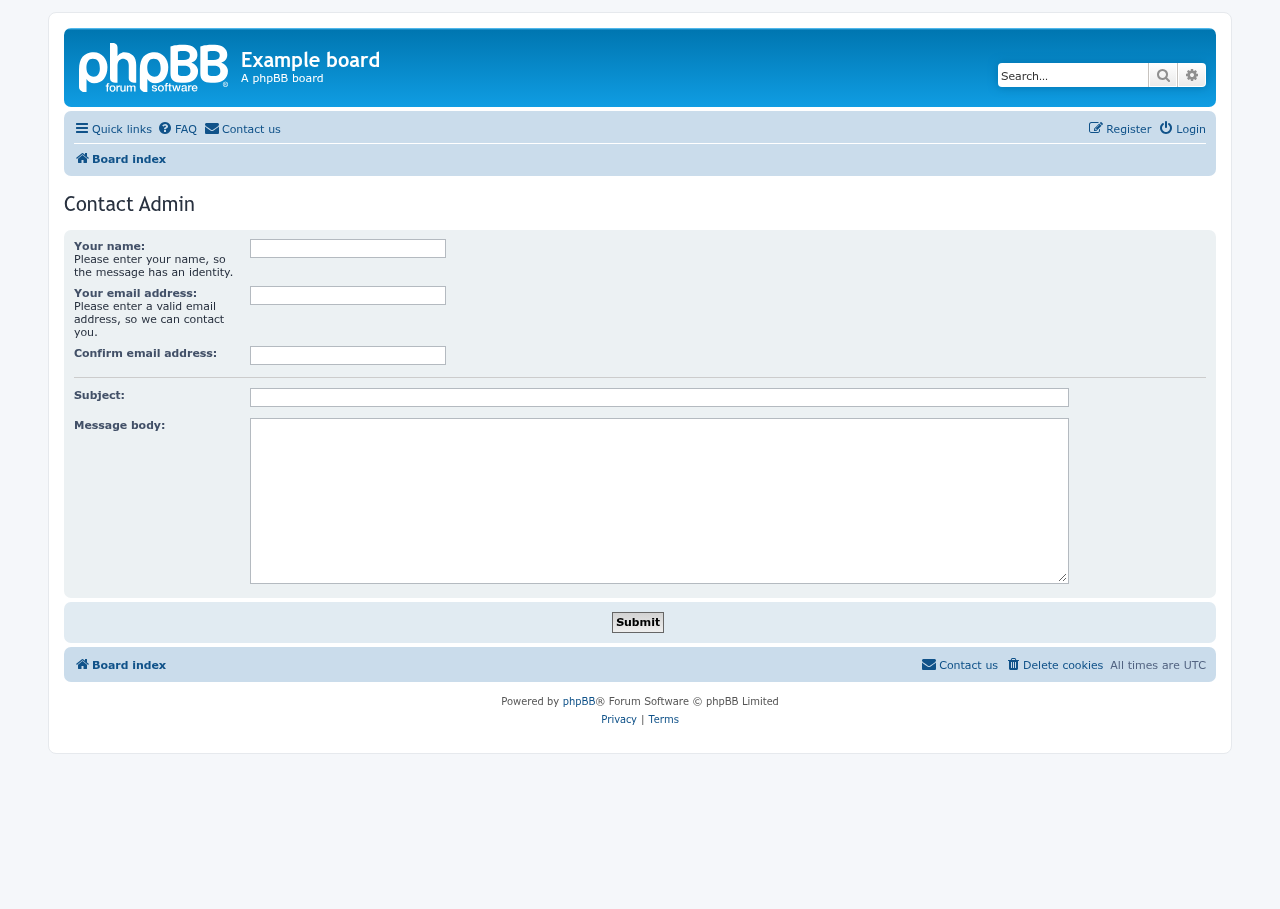
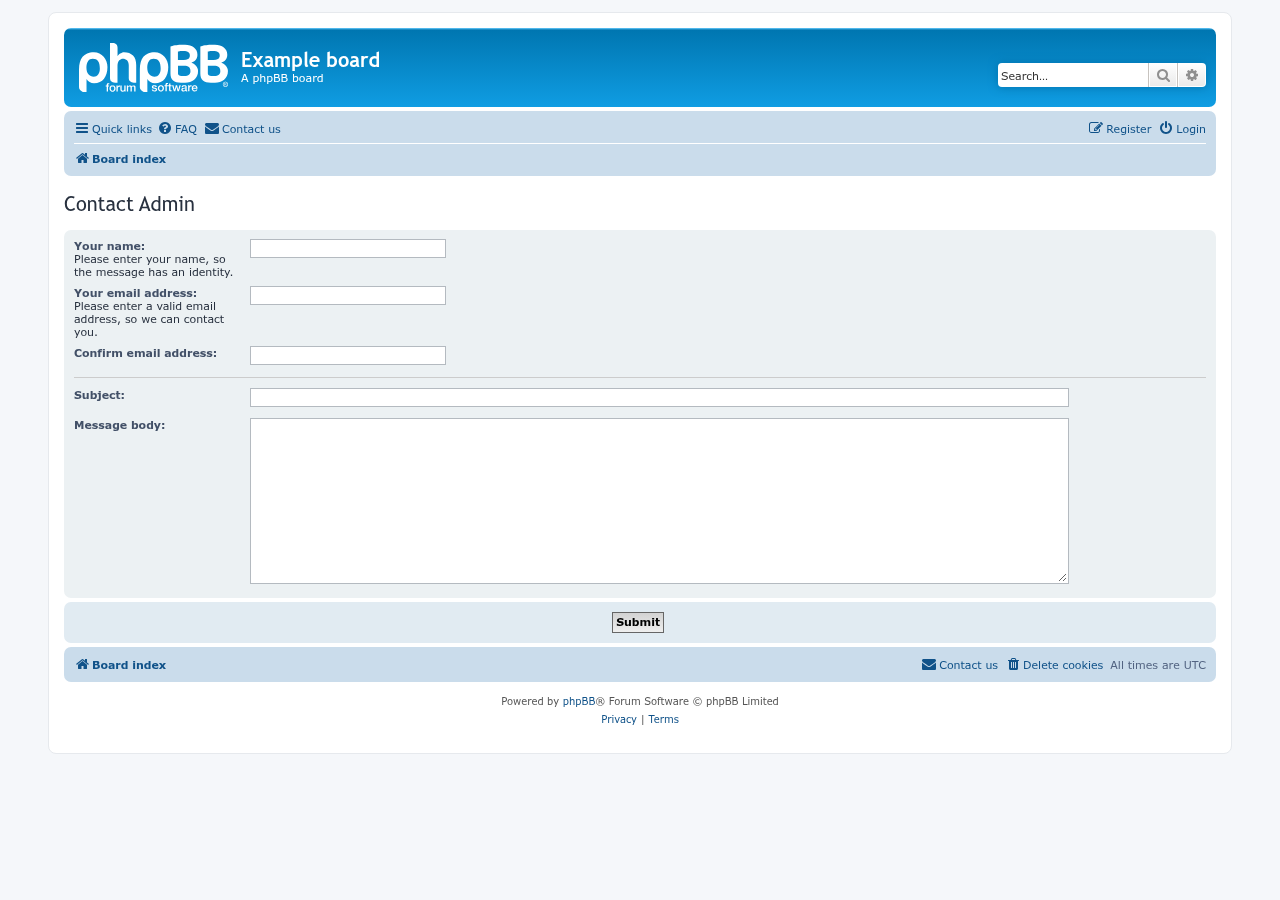
Refresh the screenshots and add the 10/18/2026 update gallery (#47)
- The gallery's ACP, guest and member screenshots are retaken with
  phpbb-release-tools' screenshots.py from master. The ACP page now shows
  the "No email allowed" note; the guest and member forms lost 9 pixels
  of empty space at the bottom, so their README heights change to match.
- docs/update/2026-10-18/ shows this round's fixes: the delivery settings
  with the board's email off, the guest form with the username rules and
  privacy policy box, and a guest's message labelled "Guest User".

diff --git a/docs/update/2026-10-18/README.md b/docs/update/2026-10-18/README.md
@@ -1,0 +1,21 @@
+# Contact Admin update screenshots — 10/18/2026
+
+Captured with [phpbb-release-tools](https://github.com/phpbbmodders/phpbb-release-tools)’ `phpbb-test-board/screenshots.py` on a disposable phpBB 3.3.19 board, with the board’s email turned off.
+
+## Delivery settings
+
+The contact method choices are now drawn by the extension’s own template; phpBB 4.0 removed the helper they used. The note under “Contact method” now appears when the board cannot send email.
+
+[<img src="contactadmin-acp-delivery.png" width="640" height="404" alt="Contact Admin general options in the ACP, with the note that email is not allowed under Contact method." />](contactadmin-acp-delivery.png)
+
+## Guest form with the username check and privacy policy box
+
+With “Check Username” on, guests now see the board’s username rules under “Your name”. The privacy policy box works with its label.
+
+[<img src="contactadmin-guest-checks.png" width="640" height="450" alt="The guest contact form showing the username length rule, a reason list and the privacy policy checkbox." />](contactadmin-guest-checks.png)
+
+## A guest’s message posted by the contact bot
+
+Messages from guests are labelled “Guest User” again when the contact bot posts them.
+
+[<img src="contactadmin-guest-topic.png" width="640" height="202" alt="A forum topic titled “A question about the board - Guest User”, posted by the contact bot with the guest’s name and message." />](contactadmin-guest-topic.png)

diff --git a/README.md b/README.md
@@ -16,11 +16,11 @@ A contact form that lets guests and members reach the board administrators by em
 
 ## Screenshots
 
-<a href="docs/images/screenshots/contactadmin-guest-form.png"><img src="docs/images/screenshots/contactadmin-guest-form.png" width="560" height="398" alt="Guest contact form"></a>
+<a href="docs/images/screenshots/contactadmin-guest-form.png"><img src="docs/images/screenshots/contactadmin-guest-form.png" width="560" height="394" alt="Guest contact form"></a>
 
 <a href="docs/images/screenshots/contactadmin-acp-settings.png"><img src="docs/images/screenshots/contactadmin-acp-settings.png" width="560" height="750" alt="ACP configuration"></a>
 
-<a href="docs/images/screenshots/contactadmin-member-basic.png"><img src="docs/images/screenshots/contactadmin-member-basic.png" width="560" height="398" alt="Signed-in contact form"></a>
+<a href="docs/images/screenshots/contactadmin-member-basic.png"><img src="docs/images/screenshots/contactadmin-member-basic.png" width="560" height="394" alt="Signed-in contact form"></a>
 
 Click an image for the full size. See the [screenshot gallery](docs/images/screenshots/README.md) for captions.
 

diff --git a/docs/images/screenshots/README.md b/docs/images/screenshots/README.md
@@ -1,6 +1,6 @@
 # Contact Admin screenshots
 
-Captured with Playwright on a disposable phpBB 3.3.19 board. The examples use private-message delivery; no messages were sent.
+Captured with [phpbb-release-tools](https://github.com/phpbbmodders/phpbb-release-tools)’ `phpbb-test-board/screenshots.py` on a disposable phpBB 3.3.19 board. The examples use private-message delivery; no messages were sent.
 
 ## ACP configuration
 
@@ -8,8 +8,8 @@ Captured with Playwright on a disposable phpBB 3.3.19 board. The examples use pr
 
 ## Guest contact form
 
-<a href="contactadmin-guest-form.png"><img src="contactadmin-guest-form.png" width="640" height="454" alt="Guest contact form"></a>
+<a href="contactadmin-guest-form.png"><img src="contactadmin-guest-form.png" width="640" height="450" alt="Guest contact form"></a>
 
 ## Signed-in contact form
 
-<a href="contactadmin-member-basic.png"><img src="contactadmin-member-basic.png" width="640" height="454" alt="Signed-in contact form"></a>
+<a href="contactadmin-member-basic.png"><img src="contactadmin-member-basic.png" width="640" height="450" alt="Signed-in contact form"></a>
